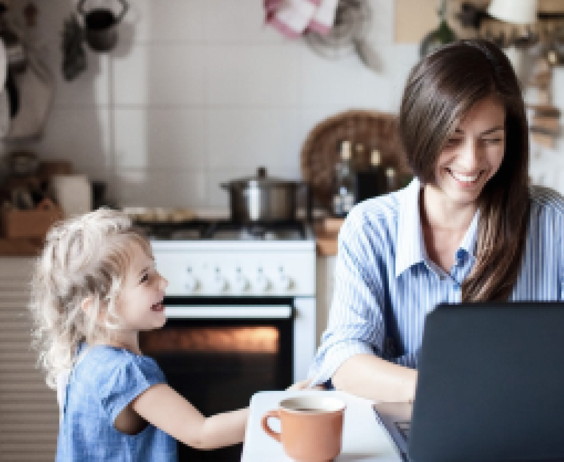
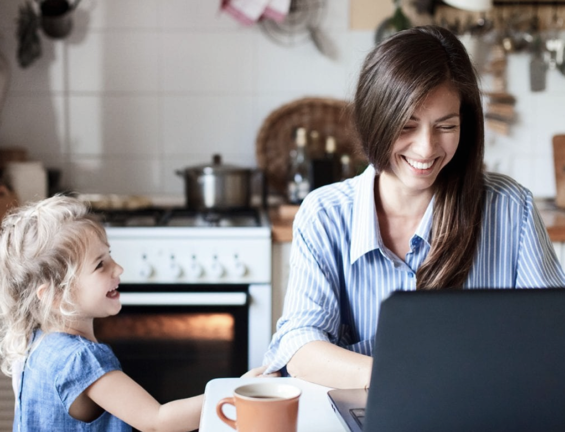
layout

diff --git a/content/what/moms/_index.html b/content/what/moms/_index.html
@@ -9,7 +9,7 @@ parent = "what"
 <div>
     <div class="container-xxl">
         <div class="row align-items-center">
-            <div class="col-md-6">
+            <div class="col-md-7">
                 <h1>Povzbudzujúca veta pre mamy</h1>
                 <p>Lorem ipsum dolor sit amet, consectetur adipiscing elit, sed do eiusmod tempor incididunt ut labore
                     et
@@ -19,7 +19,7 @@ parent = "what"
                     dolore eu
                     fugiat nulla pariatur. Excepteur sint occaecat cupidatat non proident.</p>
             </div>
-            <div class="col-md-6">
+            <div class="col-md">
                 <img src="image1.png" class="img-fluid float-end image_offset_down_right">
             </div>
         </div>
@@ -30,7 +30,7 @@ parent = "what"
     <div class="container-fluid dark pt-5">
         <div class="container-xxl">
             <div class="row align-items-center">
-                <div class="col-md-6">
+                <div class="col-md-7">
                     <h1>Najbližšie pripravujeme</h1>
                     <p>Sú pre vás právne povinnosti a možnosti pri návrate do práce po materskej/rodičovskej dovolenke
                         španielska dedina? Chcete vedieť ako si čo najlepšie zariadiť prácu popri materskej/rodičovskej
@@ -38,7 +38,7 @@ parent = "what"
                         právneho hľadiska? 👩 💻</p>
                     <a href="#" class="btn btn-warning link-dark mb-3">Chcem vedieť viac</a>
                 </div>
-                <div class="col-md-6 order-md-first">
+                <div class="col-md order-md-first">
                     <img src="image2.png" class="img-fluid image_offset_down_left">
                 </div>
             </div>
@@ -46,8 +46,8 @@ parent = "what"
     </div>
 </div>
 
-<div>
-    <div class="container-xxl pt-5">
+<div class="containuer-fluid mt-5">
+    <div class="container-xxl">
         <div class="row justify-content-center">
             <div class="col"><h1 class="text-center">A okrem webinárov?</h1></div>
         </div>
@@ -71,18 +71,17 @@ parent = "what"
 </div>
 
 <div class="container-fluid mt-5" style="background-color: #FFA4A4">
-    <div class="container-xxl about">
+    <div class="container-xxl">
         <div class="row align-items-center py-3">
-            <div class="col-md-1"></div>
-            <div class="col-md-6">
+            <div class="col-md-7">
                 <h1>Nenašli ste čo ste potrebovali?</h1>
                 <p>Dajte nám vedieť čo by vám návrat do práce zjednodušilo. Pracujúce mamy sú samé ucho! Na vaše námety
                     sa
                     tešíme na info@pracujucemamy.sk</p>
                 <a href="#" class="btn btn-light link-dark mb-3">Kontaktujte nás</a>
             </div>
-            <div class="col-md-5">
-                <img src="image1.png" class="img-fluid image_offset_up">
+            <div class="col-md">
+                <img src="image1.png" class="img-fluid float-end image_offset_up_right">
             </div>
         </div>
     </div>

diff --git a/layouts/blog/list.html b/layouts/blog/list.html
@@ -4,31 +4,31 @@
 <div class="container-fluid pt-5">
     <div class="container-xxl blog_summary">
         <div class="row justify-content-between">
-            <div class="col-md-6 align-self-center">
+            <div class="col-md-7 align-self-center">
                 <p class="date">{{ .Date.Format "02.01.2006" }} | {{ .Params.Author }}</p>
                 <h1>{{ .Title }}</h1>
                 {{ .Summary }}
                 <a href="{{ .RelPermalink  }}" class="read_more">Čítaj viac ➔</a>
                 <p></p>
             </div>
-            <div class="col-md-6">
+            <div class="col-md">
                 <img src="{{ .Permalink }}/image.png" class="img-fluid float-end image_offset_down_right">
             </div>
         </div>
     </div>
 </div>
 {{ else }}
-<div class="container-fluid pt-5  blog_panel_odd">
+<div class="container-fluid pt-5 blog_panel_odd">
     <div class="container-xxl blog_summary">
         <div class="row justify-content-between">
-            <div class="col-md-6 align-self-center order-md-last">
+            <div class="col-md-7 align-self-center order-md-last">
                 <p class="date">{{ .Date.Format "02.01.2006" }} | {{ .Params.Author }}</p>
                 <h1>{{ .Title }}</h1>
                 {{ .Summary }}
                 <a href="{{ .RelPermalink  }}" class="read_more">Čítaj viac ➔</a>
                 <p></p>
             </div>
-            <div class="col-md-6 order-md-first">
+            <div class="col-md order-md-first">
                 <img src="{{ .Permalink }}/image.png" class="img-fluid float-start image_offset_down_left">
             </div>
         </div>

diff --git a/assets/sass/main.scss b/assets/sass/main.scss
@@ -23,17 +23,11 @@ html {
   }
 
 
-  .image_offset_up {
+  .image_offset_up_right {
     transform: translate(2.5rem, -2.5rem);
   }
 }
 
-
-.image_offset_down {
-}
-
-.image_offset_up {
-}
 
 
 body {
